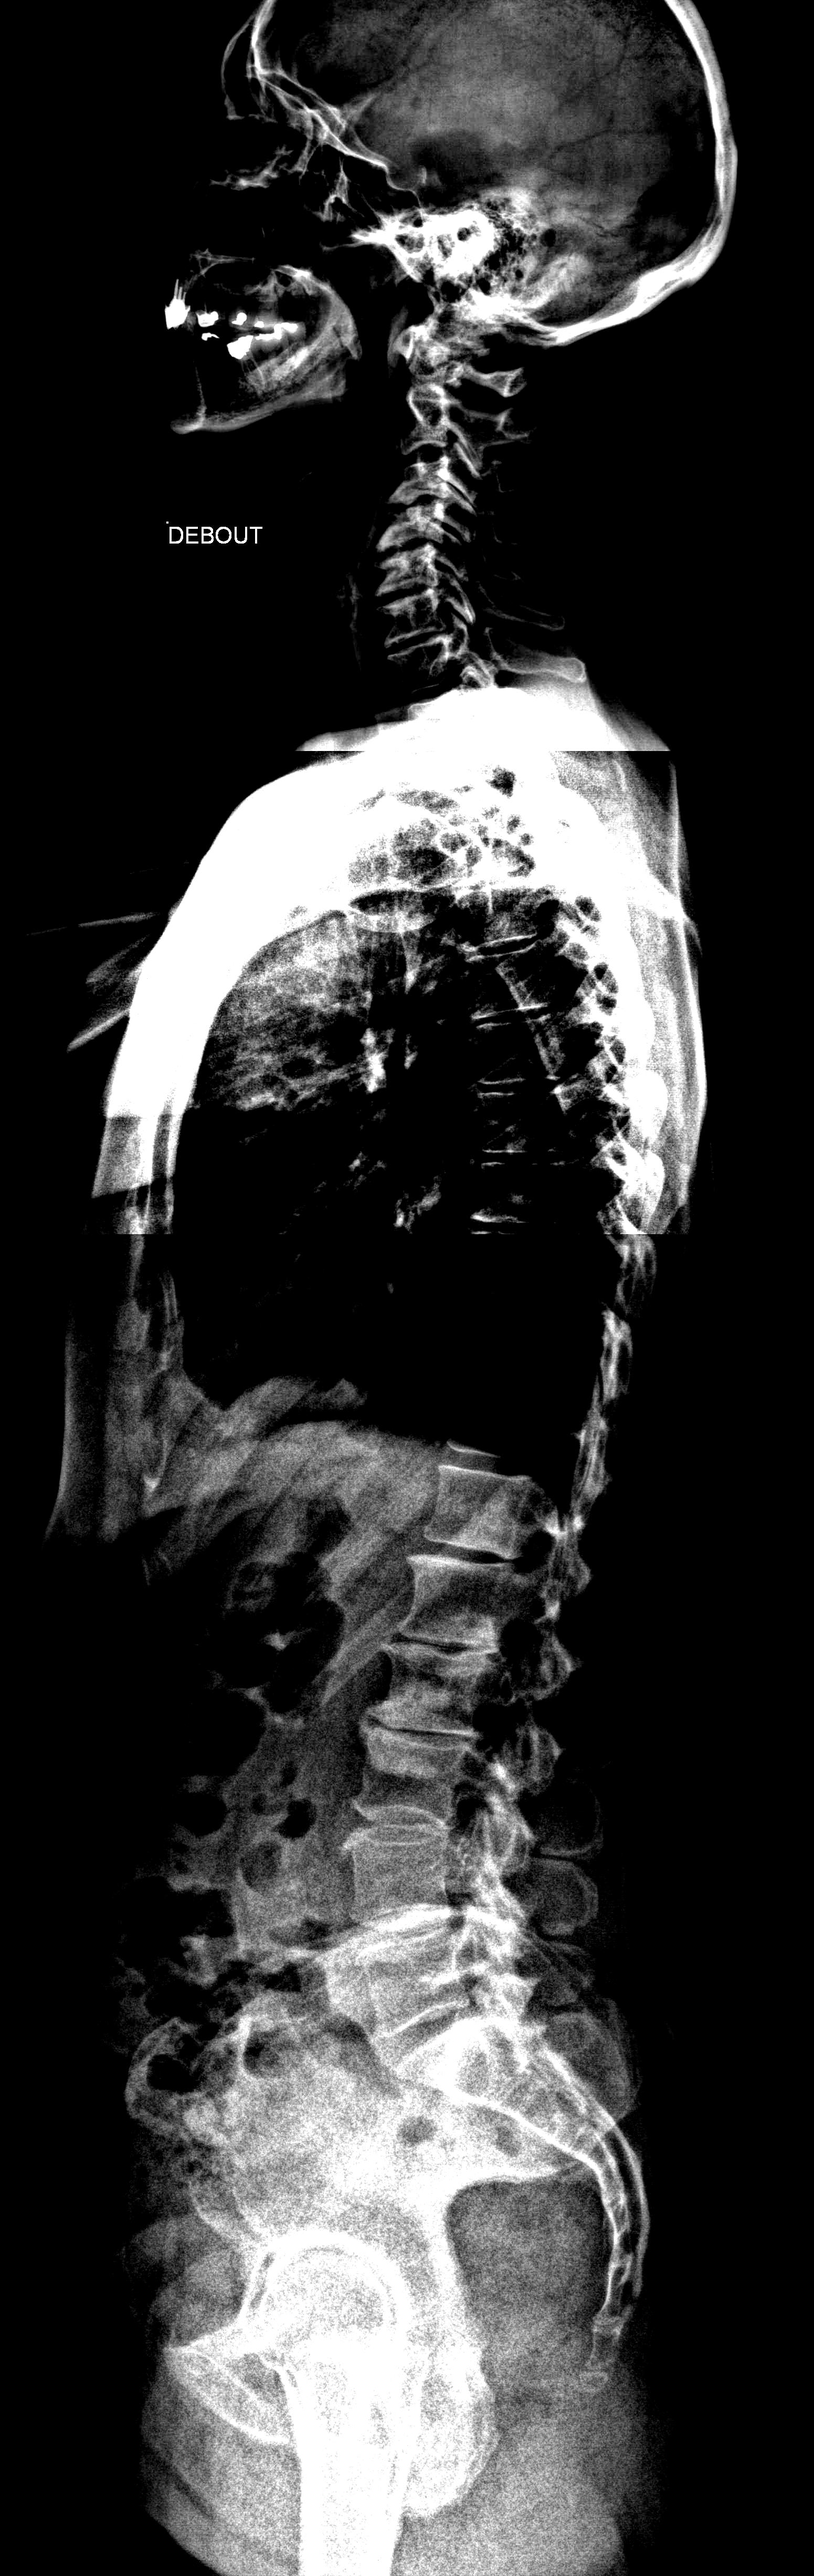
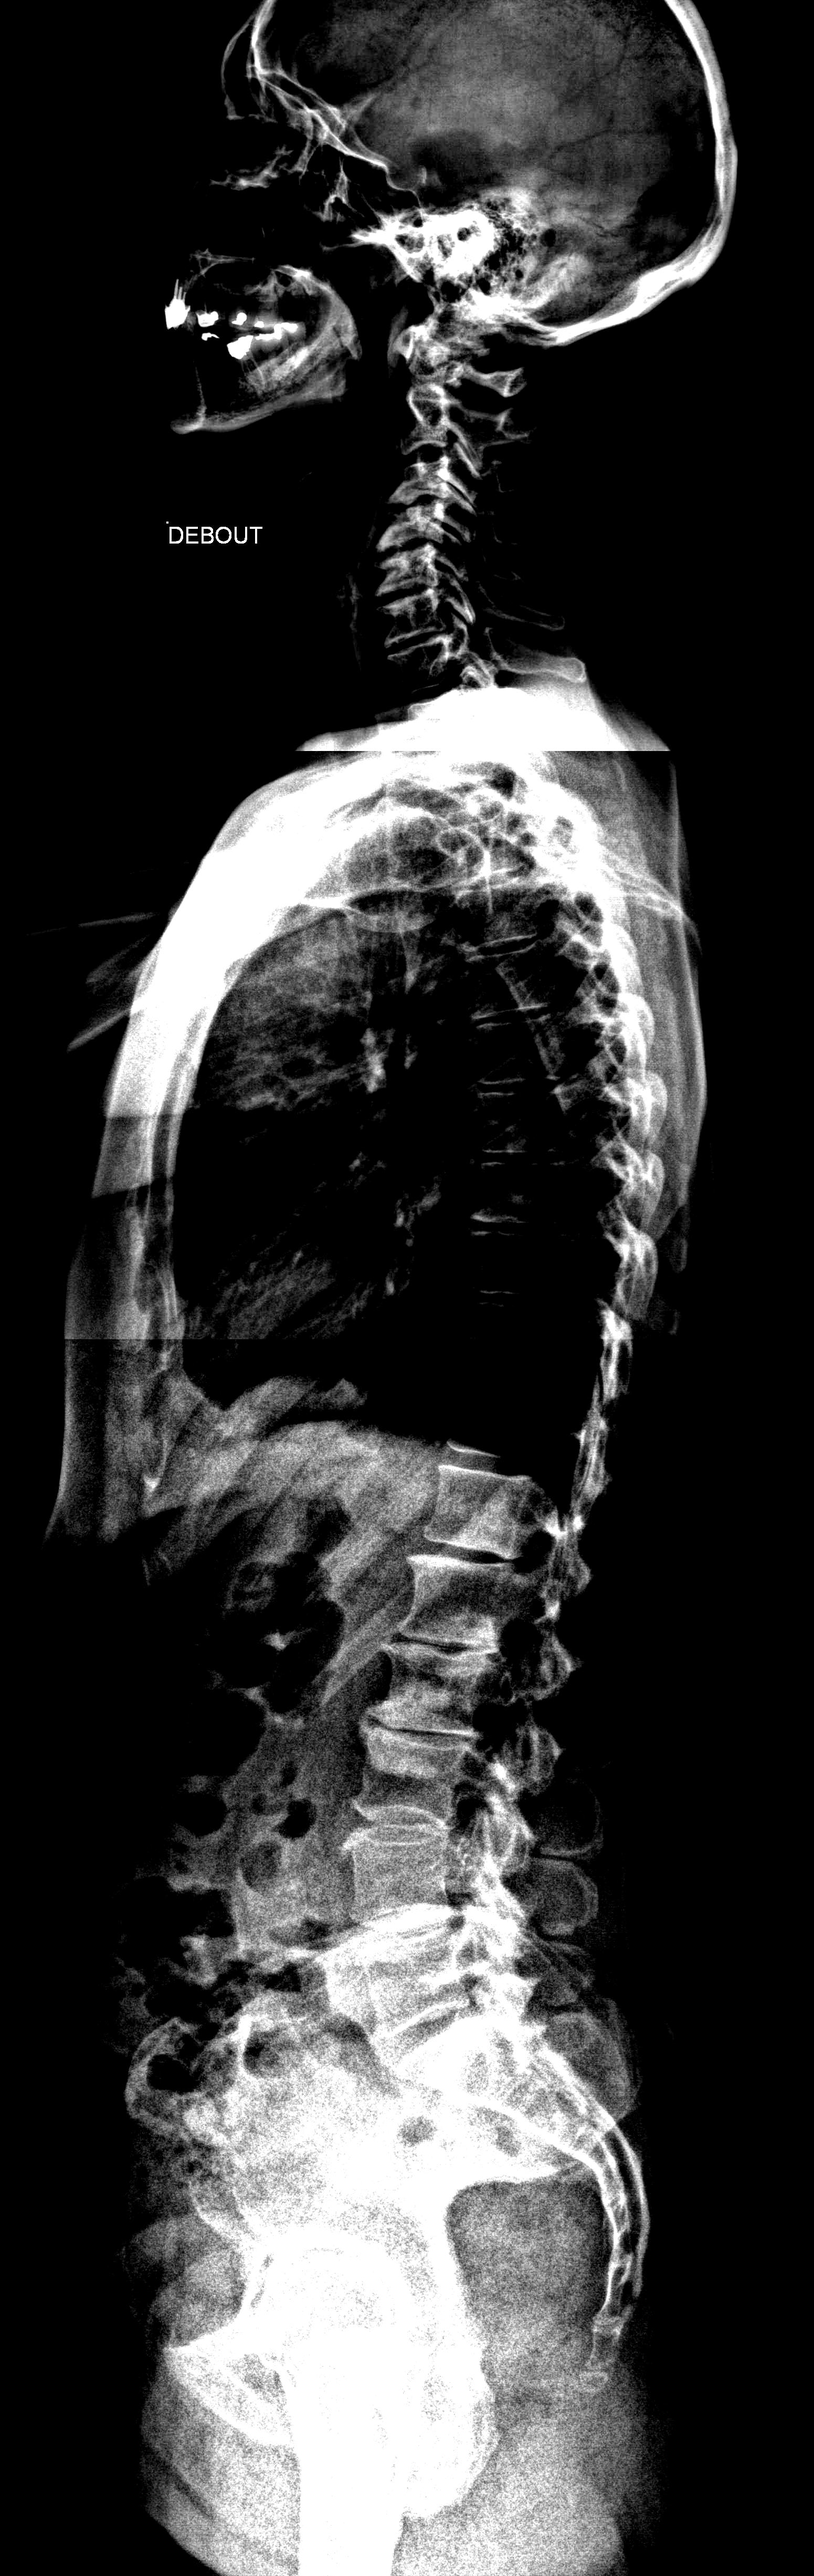
New images contrast

diff --git a/contrast_image.m b/contrast_image.m
@@ -6,8 +6,8 @@ I2 = rgb2gray(I);
 J1 = adapthisteq(I2);
 J2 = histeq(I2);
 J3A = imadjust(I2, [0.22 0.41]); %neck values
-J3B = imadjust(I2, [0.42 0.58]); %body values
-J3C = imadjust(I2, [0.50 0.78]); %pelvis values 0.47 0.88
+J3B = imadjust(I2, [0.42 0.70]); %body values 0.42 0.58
+J3C = imadjust(I2, [0.50 0.73]); %pelvis values 0.47 0.88
 D1 = imadjust(I2, [0.5 0.58]); %detection values 1
 D2 = imadjust(I2, [0.79 0.99]); %detection values 2
 %figure;
@@ -48,13 +48,13 @@ for i = x1:1:m
         x2 = i;
     end
 end
-x2 = x2 + 300 
+x2 = x2 + 500 
 
 J3A = imcrop(J3A, [0 0 n x1]);
 J3B = imcrop(J3B, [0 x1+1 n x2-x1]);
 J3C = imcrop(J3C, [0 x2+1 n m-x2]);
 J = cat(1,J3A,J3B,J3C);
-%figure;
-%imshowpair(I2,J,'montage');
+figure;
+imshowpair(I2,J,'montage');
 %imshow(J)
 end
